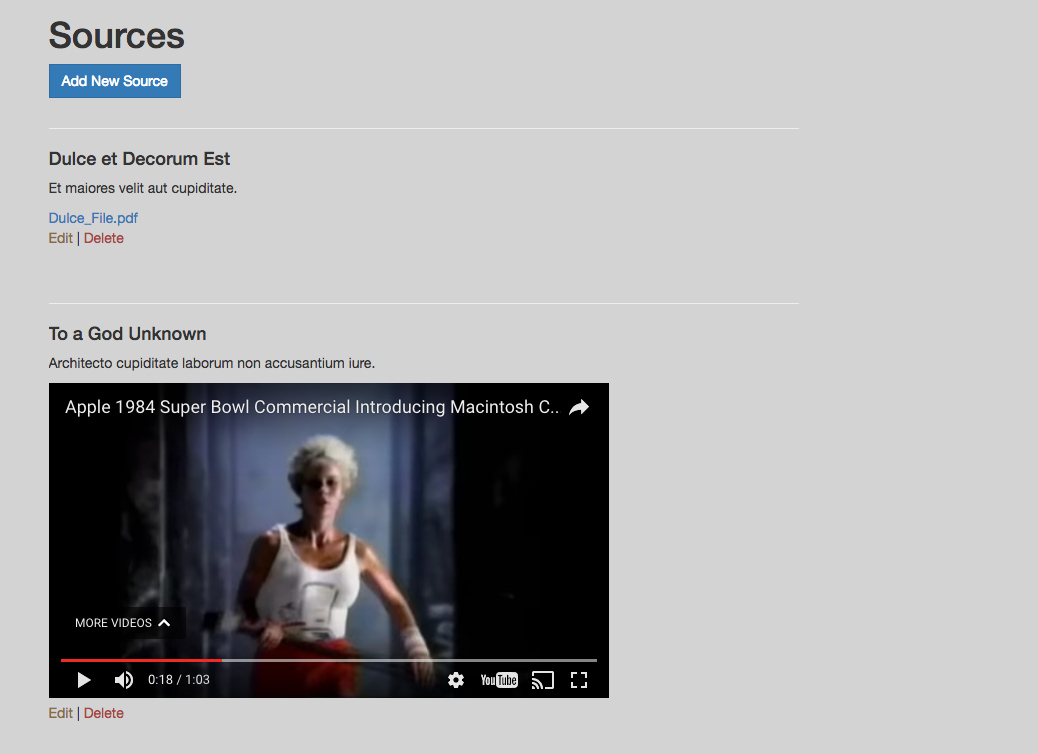
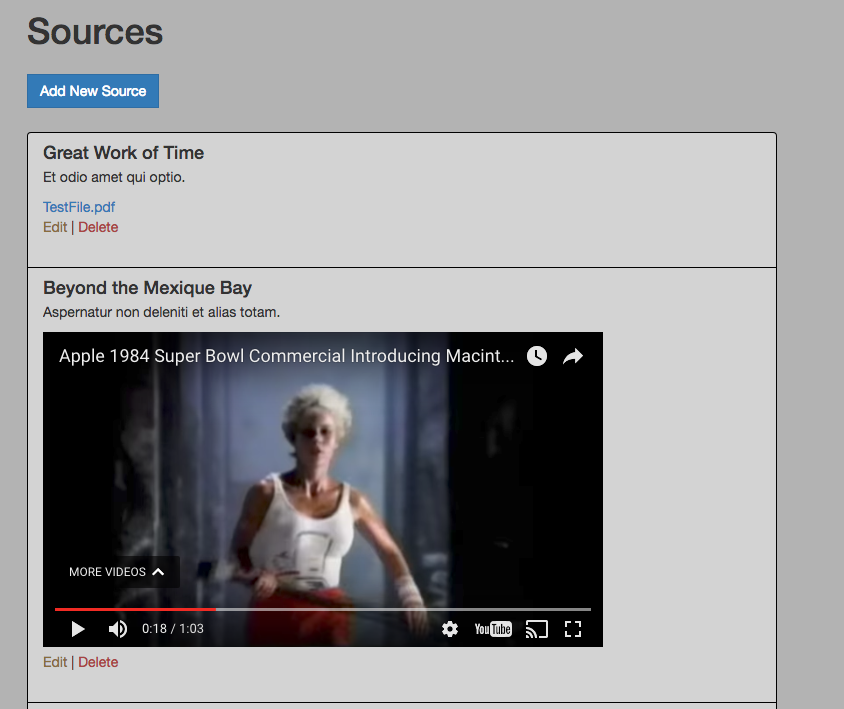
Add Ability to Submit Grades and Feedback

diff --git a/app/assets/stylesheets/application.css b/app/assets/stylesheets/application.css
@@ -17,7 +17,16 @@
 @import 'bootstrap';
 
 body {
+  background-color: #b3b3b3;
+}
+
+.list-group {
+  margin-top: 1em;
+}
+
+.list-group-item {
   background-color: lightgray;
+  border-color: black;
 }
 
 .name {
@@ -41,6 +50,7 @@ body {
 
 .btn {
   border-radius: 0;
+  margin-top: 1em;
 }
 
 .btn-margins {
@@ -54,4 +64,8 @@ body {
 
 .links {
   clear: both;
+}
+
+ul {
+  list-style-type: none;
 }

diff --git a/app/helpers/assignments_helper.rb b/app/helpers/assignments_helper.rb
@@ -26,11 +26,16 @@ module AssignmentsHelper
       if submission.file?
         output += link_to(render_file_name(submission.file.url), submission.file.url, target: "_blank") + tag(:br)
       end
+      output += "Submitted by #{submission.student.firstname} #{submission.student.lastname} at #{submission.created_at}"
       if submission.grade?
-        output += content_tag(:h4, submission.grade)
+        output += content_tag(:h4, "Grade: #{submission.grade}")
       else
-        output += content_tag(:h4, "Not graded")
+        output += content_tag(:h4, "Not graded", class: "text-danger")
       end
+      if submission.feedback?
+        output += submission.feedback + tag(:br)
+      end
+      output += link_to "Grade", instructor_assignment_submission_path(submission.assignment, submission), class: "btn btn-primary"
       output.html_safe
   end
 

diff --git a/app/controllers/instructor/submissions_controller.rb b/app/controllers/instructor/submissions_controller.rb
@@ -7,6 +7,7 @@ class Instructor::SubmissionsController < ApplicationController
   end
 
   def update
+    @submission = Submission.find(params[:id])
     if @submission.update_attributes(submission_params)
       flash[:notice] = "Your grade has been submitted."
     else
@@ -17,14 +18,14 @@ class Instructor::SubmissionsController < ApplicationController
 
   private
    def authenticate_instructor
-     raise "You're not allowed!" unless current_instructor?
+     raise "You're not allowed!" unless current_instructor
    end
 
    def set_assignment
-     @assignment = Assignment.find(:assignment_id)
+     @assignment = Assignment.find(params[:assignment_id])
    end
 
    def submission_params
-     params.require(:submission).permit(:grade)
+     params.require(:submission).permit(:grade, :feedback)
    end
 end

diff --git a/db/schema.rb b/db/schema.rb
@@ -10,7 +10,7 @@
 #
 # It's strongly recommended that you check this file into your version control system.
 
-ActiveRecord::Schema.define(version: 20170430194927) do
+ActiveRecord::Schema.define(version: 20170506144357) do
 
   create_table "assignments", force: :cascade do |t|
     t.string   "name"
@@ -76,6 +76,7 @@ ActiveRecord::Schema.define(version: 20170430194927) do
     t.integer  "student_id"
     t.datetime "created_at",    null: false
     t.datetime "updated_at",    null: false
+    t.text     "feedback"
     t.index ["assignment_id"], name: "index_submissions_on_assignment_id"
     t.index ["student_id"], name: "index_submissions_on_student_id"
   end

diff --git a/app/helpers/instructor_helper.rb b/app/helpers/instructor_helper.rb
@@ -1,0 +1,19 @@
+module InstructorHelper
+
+  def render_submission_for_grade(submission)
+    output = ""
+    output += content_tag(:li, submission.assignment.name)
+    output += content_tag(:li, submission.note)
+    if submission.file?
+      output += content_tag(:li, link_to(render_file_name(submission.file.url), submission.file.url, target: "_blank"))
+    end
+    if submission.grade?
+      output += content_tag(:li, submission.grade.to_s)
+    end
+    if submission.feedback?
+      output += content_tag(:li, submission.feedback)
+    end
+    output.html_safe
+  end
+
+end

diff --git a/app/helpers/sources_helper.rb b/app/helpers/sources_helper.rb
@@ -2,8 +2,7 @@ module SourcesHelper
 
   def render_resource_for(source)
     output = ""
-    output += tag(:hr)
-    output += content_tag(:h4, source.title, class: "media heading")
+    output += content_tag(:h4, source.title, class: "media-heading")
     output += content_tag(:p, source.description)
     if source.file?
       output += link_to(render_file_name(source.file.url), source.file.url, target: "_blank") + tag(:br)

diff --git a/app/helpers/students_helper.rb b/app/helpers/students_helper.rb
@@ -3,7 +3,7 @@ module StudentsHelper
   def render_student_roster
     output_list = ""
     alphabetized_list.each do |student|
-      output_list += student.lastname + ", " + student.firstname + tag(:br) + tag(:br)
+      output_list += student.lastname + ", " + student.firstname + tag(:br)
     end
     output_list.html_safe
   end

diff --git a/db/seeds.rb b/db/seeds.rb
@@ -42,7 +42,8 @@ assignments = Assignment.all
     student: students.shuffle.pop,
     assignment: assignments.sample,
     note: Faker::Lorem.sentence,
-    grade: rand(50...100)
+    grade: rand(50...100),
+    feedback: Faker::StarWars.quote
   )
 end
 submissions = Submission.all

diff --git a/app/controllers/submissions_controller.rb b/app/controllers/submissions_controller.rb
@@ -38,6 +38,7 @@ class SubmissionsController < ApplicationController
       flash.now[:alert] = "There was an error updating the assignment. Please try again."
       render :edit
     end
+    raise
   end
 
   def destroy

diff --git a/db/migrate/20170506144357_add_feedback_to_submissions.rb b/db/migrate/20170506144357_add_feedback_to_submissions.rb
@@ -1,0 +1,5 @@
+class AddFeedbackToSubmissions < ActiveRecord::Migration[5.0]
+  def change
+    add_column :submissions, :feedback, :text
+  end
+end

diff --git a/README.md b/README.md
@@ -1,16 +1,27 @@
 # ClassTime
 
-### A learning management system for college courses.
-### Built with Ruby on Rails.
+## A learning management system for college courses (in progress).
+## Built with Ruby on Rails.
 
 
-#### **Sources**
+### **Sources**
 
 Instructors can:
 * Create, edit, and delete sources
 * Add links
-* Attach PDF files (CarrierWave gem)
+* Attach PDF files (CarrierWave gem and Amazon S3 storage)
 * Embed YouTube videos
 
 **Instructor View**
-![Screenshot](app/assets/images/Screenshot_Sources_Instructor.png)
+![Screenshot_Sources](app/assets/images/Screenshot_Sources_Instructor.png)
+
+
+### **Assignments**
+
+Instructors can:
+* View all student submissions for an assignment
+* See if an assignment has been graded
+* Add grades and written comments
+
+**Instructor View**
+![Screenshot_Assignments](app/assets/images/Screenshot_Assign_Instructor.png)
